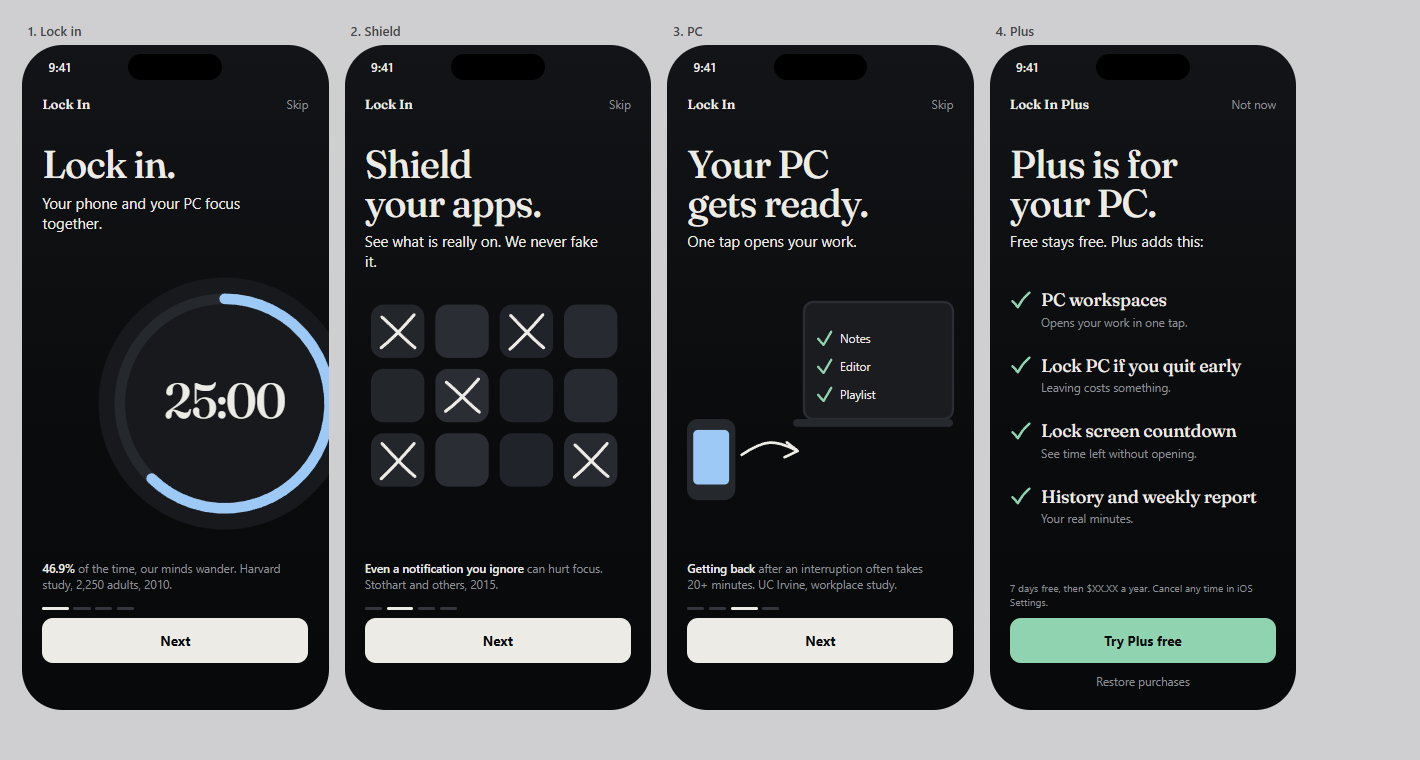
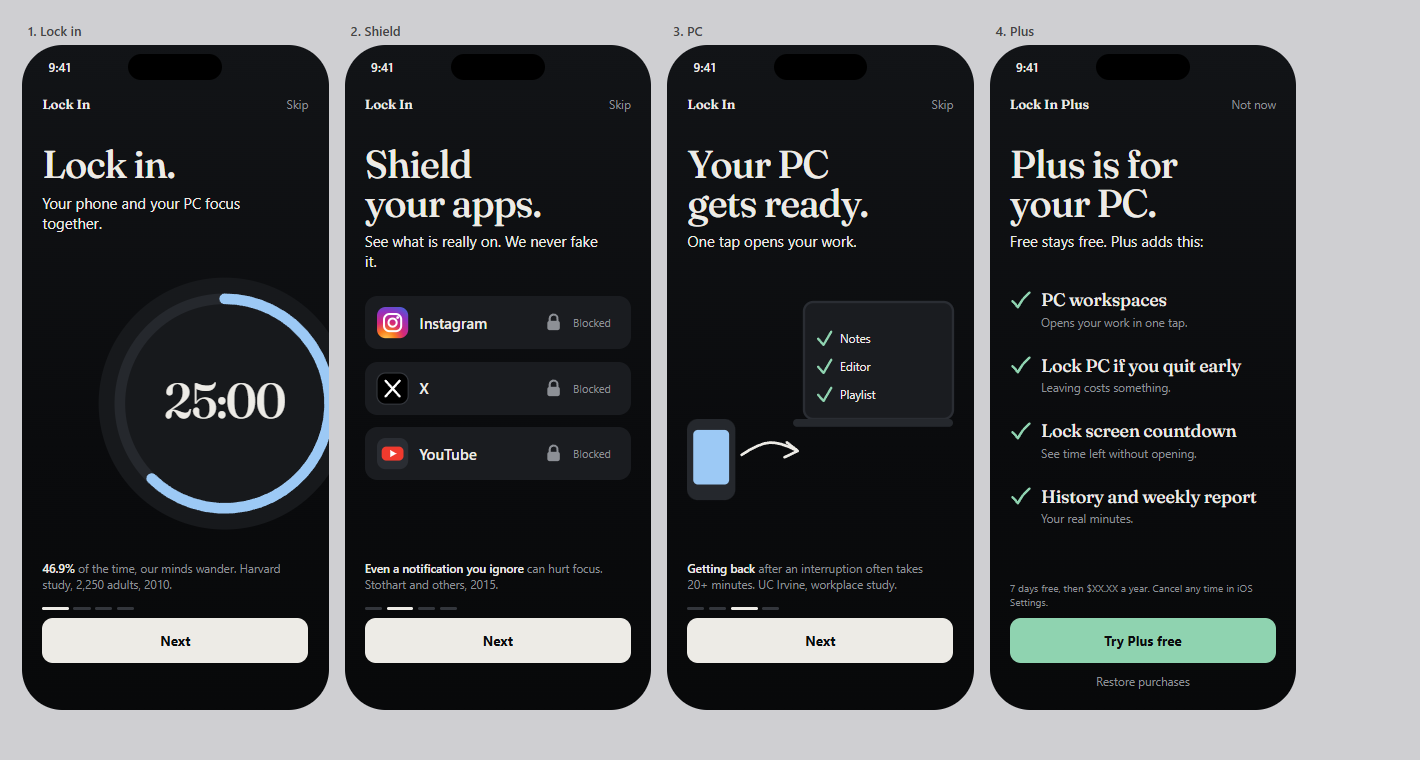
Flat matte Focus background; human welcome slide mocks; flat Focus and Restrictions drawings

Changed region(s): [[0.2479, 0.3934, 0.4338, 0.6658]]

diff --git a/docs/design/focus-flat.html b/docs/design/focus-flat.html
@@ -1,0 +1,85 @@
+<!doctype html>
+<html lang="en">
+<head>
+<meta charset="utf-8">
+<title>Focus flat background</title>
+<meta name="viewport" content="width=device-width, initial-scale=1">
+<style>
+  * { box-sizing: border-box; margin: 0; }
+  body { font-family: -apple-system, "SF Pro Rounded", "Nunito", system-ui, sans-serif; background: #d9d9de; padding: 20px; display: flex; gap: 20px; }
+  .phone { width: 393px; height: 852px; border-radius: 52px; overflow: hidden; position: relative; background: linear-gradient(180deg, #121417 0%, #0A0B0D 60%, #08090A 100%); color: #F3F5F8; flex: none; }
+  .blob { position: absolute; border-radius: 50%; filter: blur(55px); }
+  .vig { position: absolute; inset: 0; background: radial-gradient(ellipse at 50% 45%, transparent 55%, rgba(0,0,0,.45) 100%); pointer-events: none; }
+  .title { position: absolute; top: 66px; width: 100%; text-align: center; font-weight: 700; font-size: 13px; letter-spacing: 4px; color: #8E97A3; }
+  .pc { position: absolute; top: 90px; width: 100%; text-align: center; font-weight: 600; font-size: 12px; letter-spacing: 2px; color: #8E97A3; }
+  .shield { position: absolute; top: 56px; right: 12px; width: 44px; height: 44px; border-radius: 50%; background: #0B0C0E; box-shadow: inset 0 0 0 1px #2B2F35; display: grid; place-items: center; color: #C3CAD3; font-size: 16px; }
+  .clock { position: absolute; left: 24px; width: 345px; height: 345px; }
+  .clock svg { position: absolute; inset: 0; overflow: visible; }
+  .bezel { position: absolute; left: 2%; top: 2%; width: 96%; height: 96%; border-radius: 50%; background: conic-gradient(from 210deg, #2B2F35, #101215, #23272C, #0D0F11, #2A2E34, #2B2F35); box-shadow: 0 24px 28px rgba(0,0,0,.7); }
+  .face { position: absolute; left: 9.7%; top: 9.7%; width: 80.6%; height: 80.6%; border-radius: 50%; background: radial-gradient(circle at 35% 25%, #1D2025, #121417 55%, #0C0D0F); box-shadow: inset 0 0 0 2px rgba(0,0,0,.5); }
+  .time { position: absolute; left: 0; right: 0; top: 50%; transform: translateY(-62%); text-align: center; font-weight: 600; font-size: 69px; font-variant-numeric: tabular-nums; }
+  .cap { position: absolute; left: 0; right: 0; top: 50%; transform: translateY(190%); text-align: center; font-weight: 700; font-size: 13.5px; letter-spacing: 2.4px; color: #8E97A3; }
+  .rip { position: absolute; left: 50%; top: 50%; border-radius: 50%; border: 1px solid rgba(120,170,230,var(--a)); transform: translate(-50%,-50%); }
+  .tray { position: absolute; left: 24px; right: 24px; bottom: 104px; background: #0B0C0E; border-radius: 20px; padding: 4px; display: flex; gap: 4px; box-shadow: inset 0 0 0 1px rgba(255,255,255,.05); }
+  .tray div { flex: 1; height: 44px; display: grid; place-items: center; font-weight: 500; font-size: 15px; color: #7E8794; border-radius: 15px; }
+  .tray .on { color: #fff; font-weight: 700; background: linear-gradient(180deg, #2E3238, #1F2227); box-shadow: inset 0 0 0 1px rgba(255,255,255,.1), 0 3px 5px rgba(0,0,0,.6); }
+  .lab { position: absolute; bottom: 160px; width: 100%; text-align: center; font-weight: 600; font-size: 11px; letter-spacing: 3px; color: #8E97A3; }
+  .btn { position: absolute; left: 24px; right: 24px; bottom: 34px; height: 60px; border-radius: 22px; display: grid; place-items: center; font-weight: 800; font-size: 16px; letter-spacing: 2px; }
+  .btn.p { background: linear-gradient(180deg, #F4F6F9, #D5DBE2); color: #0E1218; box-shadow: 0 8px 12px rgba(0,0,0,.6); }
+  .btn.q { background: linear-gradient(180deg, #1B1E22, #131518); color: #C3CAD3; box-shadow: inset 0 0 0 1.5px #2B2F35; }
+  .dot { position: absolute; width: 3px; height: 3px; border-radius: 50%; background: #BFD8F5; }
+  .island { position: absolute; top: 11px; left: 50%; width: 120px; height: 34px; margin-left: -60px; border-radius: 20px; background: #000; z-index: 5; }
+  .sb { position: absolute; top: 18px; left: 34px; font-weight: 600; font-size: 16px; z-index: 5; }
+  .cap2 { position: absolute; top: -0px; }
+  h4 { font: 700 13px system-ui; color: #333; margin-bottom: 6px; }
+</style>
+</head>
+<body>
+<div id="root" style="display:flex;gap:20px"></div>
+<script>
+const W = 393, H = 852, U = 345;
+function ticks() {
+  let o = '';
+  const c = U / 2, r1 = U * 0.361;
+  for (let i = 0; i < 60; i++) {
+    const a = i / 60 * 2 * Math.PI, maj = i % 5 === 0, r2 = r1 - U * (maj ? 0.029 : 0.016);
+    o += `<line x1="${c + Math.cos(a) * r1}" y1="${c + Math.sin(a) * r1}" x2="${c + Math.cos(a) * r2}" y2="${c + Math.sin(a) * r2}" stroke="${maj ? '#5D6674' : '#323841'}" stroke-width="${maj ? 1.6 : 1}"/>`;
+  }
+  return o;
+}
+function arc(f, colors) {
+  const rd = U * 0.865 / 2, lw = U * 0.036, cc = 2 * Math.PI * rd, c = U / 2;
+  const id = 'g' + Math.random().toString(36).slice(2, 7);
+  const a = (1 - f) * 2 * Math.PI - Math.PI / 2;
+  const tip = f < .999 ? `<circle cx="${c + Math.cos(a) * rd}" cy="${c + Math.sin(a) * rd}" r="${lw * 0.15}" fill="#EAF5FF"/>` : '';
+  return `<defs><linearGradient id="${id}" x1="0" y1="0" x2="1" y2="1"><stop offset="0" stop-color="${colors[0]}"/><stop offset=".5" stop-color="${colors[1]}"/><stop offset="1" stop-color="${colors[2]}"/></linearGradient></defs>
+  <circle cx="${c}" cy="${c}" r="${rd}" fill="none" stroke="#050607" stroke-width="${lw + 4}"/>
+  <circle cx="${c}" cy="${c}" r="${rd}" fill="none" stroke="#1B1F24" stroke-width="${lw}"/>
+  <g transform="rotate(-90 ${c} ${c})"><circle cx="${c}" cy="${c}" r="${rd}" fill="none" stroke="url(#${id})" stroke-width="${lw}" stroke-linecap="round" stroke-dasharray="${cc * f} ${cc}" stroke-dashoffset="${-cc * (1 - f)}"/></g>${tip}`;
+}
+function phone(opts) {
+  const { run, calm, amount, time, cap, frac, label } = opts;
+  const g = [['#3A7BD8', .10, .25, .87], ['#6A4FD6', .95, .50, .82], ['#229BA6', .50, 1.0, .92]];
+  const sc = calm ? .92 : 1;
+  const blobs = g.map(([c, x, y, s]) => { const d = W * s * sc; return `<div class="blob" style="width:${d}px;height:${d}px;left:${W * x - d / 2}px;top:${H * y - d / 2}px;background:${c};opacity:${0.8 * amount}"></div>`; }).join('');
+  let dust = '';
+  [].forEach(([x, y]) => dust += `<div class="dot" style="left:${x}px;top:${y}px;opacity:${calm ? .2 : .5}"></div>`);
+  const top = 118 + (run ? 40 : 0);
+  const cy = 128 + 0; // clock top
+  const rip = [0.12, 0.45, 0.78].map(p => { const r = U * (0.5 + 0.24 * p) * 2; const al = p < .12 ? p / .12 * .45 : .45 * (1 - p); return `<div class="rip" style="width:${r}px;height:${r}px;--a:${al}"></div>`; }).join('');
+  const colors = run ? ['#B5DCFC', '#6AAEF0', '#4C8EE0'] : ['#B5DCFC', '#6AAEF0', '#4C8EE0'];
+  return `<div><h4>${label}</h4><div class="phone">${blobs}${dust}
+  <div class="island"></div><div class="sb">9:41</div>
+  <div class="title">LOCK IN</div>${run ? '' : '<div class="pc">PAIR A PC</div><div class="shield">&#9680;</div>'}
+  <div class="clock" style="top:${run ? 200 : 168}px">${rip}<div class="bezel"></div><div class="face"></div>
+    <svg viewBox="0 0 ${U} ${U}"><g>${ticks()}</g>${arc(frac, colors)}</svg>
+    <div class="time">${time}</div><div class="cap">${cap}</div></div>
+  ${run ? '' : '<div class="lab">MINUTES</div><div class="tray"><div>15</div><div>25</div><div class="on">45</div><div>60</div><div>90</div></div>'}
+  <div class="btn ${run ? 'q' : 'p'}">${run ? 'END SESSION' : 'LOCK IN'}</div></div></div>`;
+}
+document.getElementById('root').innerHTML =
+  phone({ run: false, calm: false, amount: 0, time: '45:00', cap: 'READY', frac: .5, label: 'Idle' }) +
+  '';
+</script>
+</body>
+</html>

diff --git a/apps/ios/LockIn/Clock/FocusBackdrop.swift b/apps/ios/LockIn/Clock/FocusBackdrop.swift
@@ -1,40 +1,21 @@
 import SwiftUI
 
-/// Matte black backdrop with slow drifting glows and rising dust.
-/// Glow color follows `FocusMood`. With Reduce Motion or Low Power Mode the drift and dust stop;
-/// colors still change, with a short fade.
+/// Flat matte black backdrop, the same dark gradient as the welcome slides. No glows, dust or vignette.
+/// The ring color on the clock still shows the session mood.
 struct FocusBackdrop: View {
     let timing: SessionTiming?
     let flash: FocusMood?
 
-    @Environment(\.accessibilityReduceMotion) private var systemReduceMotion
-    private var motion: Bool { !motionLimited(systemReduceMotion) }
-
     var body: some View {
-        TimelineView(.animation(minimumInterval: motion ? 1.0 / 20 : 1, paused: !motion && timing == nil)) { context in
-            let mood = FocusMood.resolve(timing: timing, flash: flash, now: context.date)
-            let t = motion ? context.date.timeIntervalSinceReferenceDate : 0
-            ZStack {
-                LinearGradient(
-                    stops: [
-                        .init(color: Matte.bgTop, location: 0),
-                        .init(color: Matte.bgMid, location: 0.6),
-                        .init(color: Matte.bgBottom, location: 1),
-                    ],
-                    startPoint: .top,
-                    endPoint: .bottom
-                )
-                MoodGlows(mood: mood, t: t, fade: motion ? 1.6 : 0.3)
-                if motion { DustField(t: t, calm: mood.calm) }
-                EllipticalGradient(
-                    colors: [.clear, .black.opacity(0.45)],
-                    center: UnitPoint(x: 0.5, y: 0.45),
-                    startRadiusFraction: 0.55,
-                    endRadiusFraction: 1
-                )
-                .allowsHitTesting(false)
-            }
-        }
+        LinearGradient(
+            stops: [
+                .init(color: Matte.bgTop, location: 0),
+                .init(color: Matte.bgMid, location: 0.6),
+                .init(color: Matte.bgBottom, location: 1),
+            ],
+            startPoint: .top,
+            endPoint: .bottom
+        )
         .ignoresSafeArea()
         .accessibilityHidden(true)
     }
@@ -45,79 +26,5 @@ struct CreamBackdrop: View {
     var body: some View {
         LinearGradient(colors: [Cream.top, Cream.bottom], startPoint: .top, endPoint: .bottom)
             .ignoresSafeArea()
-    }
-}
-
-private struct MoodGlows: View {
-    let mood: FocusMood
-    let t: Double
-    let fade: Double
-
-    private func drift(_ period: Double, _ phase: Double, _ amp: CGFloat) -> CGFloat {
-        CGFloat(sin(t * 2 * .pi / period + phase)) * amp
-    }
-
-    private func blob(_ color: Color, size: CGFloat) -> some View {
-        // Padding keeps the blur halo inside the rasterized bounds so it is not cut off.
-        Circle()
-            .fill(color)
-            .frame(width: size, height: size)
-            .padding(170)
-            .blur(radius: 55)
-            .drawingGroup()
-            .opacity(0.8 * mood.glowAmount)
-            .scaleEffect(mood.calm ? 0.92 : 1)
-            .animation(.easeInOut(duration: fade), value: mood)
-    }
-
-    var body: some View {
-        GeometryReader { geo in
-            let w = geo.size.width, h = geo.size.height
-            let k: CGFloat = mood.calm ? 0.4 : 1.0
-            ZStack {
-                blob(mood.glows[0], size: w * 0.87)
-                    .position(x: w * 0.10, y: h * 0.25)
-                    .offset(x: drift(14, 0, 40) * k, y: drift(14, 1.2, 60) * k)
-                blob(mood.glows[1], size: w * 0.82)
-                    .position(x: w * 0.95, y: h * 0.50)
-                    .offset(x: drift(17, 2.0, 50) * k, y: drift(17, 0.4, 55) * k)
-                blob(mood.glows[2], size: w * 0.92)
-                    .position(x: w * 0.50, y: h * 1.0)
-                    .offset(x: drift(19, 3.1, 45) * k, y: drift(19, 1.9, 40) * k)
-            }
-            .frame(width: w, height: h)
-        }
-        .allowsHitTesting(false)
-    }
-}
-
-private struct DustField: View {
-    let t: Double
-    let calm: Bool
-
-    private static func unit(_ n: Double) -> Double {
-        let x = sin(n * 12.9898) * 43758.5453
-        return x - x.rounded(.down)
-    }
-
-    var body: some View {
-        Canvas { context, size in
-            for i in 0..<16 {
-                let n = Double(i + 1)
-                let x = Self.unit(n) * size.width
-                let period = 14 + Self.unit(n + 40) * 12
-                let phase = Self.unit(n + 80)
-                var p = (t / period + phase).truncatingRemainder(dividingBy: 1)
-                if p < 0 { p += 1 }
-                let alpha: Double
-                if p < 0.15 { alpha = p / 0.15 * 0.55 }
-                else if p > 0.85 { alpha = (1 - p) / 0.15 * 0.3 }
-                else { alpha = 0.55 - (p - 0.15) / 0.7 * 0.25 }
-                let y = size.height * (1 - p)
-                let rect = CGRect(x: x - 1.5, y: y - 1.5, width: 3, height: 3)
-                context.fill(Path(ellipseIn: rect), with: .color(Color(hex: 0xBFD8F5).opacity(alpha * (calm ? 0.35 : 1))))
-            }
-        }
-        .allowsHitTesting(false)
     }
 }

diff --git a/docs/design/restrictions-matte.html b/docs/design/restrictions-matte.html
@@ -1,0 +1,28 @@
+<!doctype html>
+<html lang="en"><head><meta charset="utf-8"><title>Restrictions sheet matte</title>
+<style>
+*{box-sizing:border-box;margin:0}
+body{font-family:-apple-system,"Nunito",system-ui,sans-serif;background:#d9d9de;padding:20px;display:flex;gap:20px}
+.cap{font:700 13px system-ui;color:#333;margin-bottom:6px}
+.phone{width:393px;height:852px;border-radius:52px;overflow:hidden;position:relative;background:linear-gradient(180deg,#121417 0%,#0A0B0D 60%,#08090A 100%);color:#F3F5F8}
+.blob{position:absolute;border-radius:50%;filter:blur(55px)}
+.vig{position:absolute;inset:0;background:radial-gradient(ellipse at 50% 45%,transparent 55%,rgba(0,0,0,.45) 100%)}
+.island{position:absolute;top:11px;left:50%;width:120px;height:34px;margin-left:-60px;border-radius:20px;background:#000}
+.sb{position:absolute;top:18px;left:34px;font-weight:600;font-size:16px}
+.t{position:absolute;top:66px;width:100%;text-align:center;font-weight:700;font-size:13px;letter-spacing:4px;color:#8E97A3}
+.done{position:absolute;top:60px;right:24px;font-weight:600;font-size:17px;color:#C3CAD3}
+.h{position:absolute;left:24px;right:24px;top:140px;font-weight:300;font-size:26px;line-height:1.2}
+.btn{position:absolute;left:24px;right:24px;height:60px;border-radius:22px;display:grid;place-items:center;font-weight:800;font-size:16px;letter-spacing:2px}
+.p{background:linear-gradient(180deg,#F4F6F9,#D5DBE2);color:#0E1218;box-shadow:0 8px 12px rgba(0,0,0,.6)}
+.q{background:linear-gradient(180deg,#1B1E22,#131518);color:#C3CAD3;box-shadow:inset 0 0 0 1.5px #2B2F35}
+</style></head><body><div id="r" style="display:flex;gap:20px"></div>
+<script>
+const W=393,H=852;
+function ph(cap,head,btn,prom){
+ const g=[['#3A7BD8',.10,.25,.87],['#6A4FD6',.95,.50,.82],['#229BA6',.50,1.0,.92]];
+ const b=g.map(([c,x,y,s])=>{const d=W*s;return `<div class="blob" style="width:${d}px;height:${d}px;left:${W*x-d/2}px;top:${H*y-d/2}px;background:${c};opacity:.8"></div>`}).join('');
+ return `<div><div class="cap">${cap}</div><div class="phone">${b}<div class="vig"></div><div class="island"></div><div class="sb">9:41</div><div class="t">RESTRICTIONS</div><div class="done">Done</div><div class="h">${head}</div><div class="btn ${prom?'p':'q'}" style="top:260px">${btn}</div></div></div>`}
+document.getElementById('r').innerHTML=
+ ph('Access off','Screen Time access is off.','ALLOW ACCESS',true)+
+ ph('Access on, apps chosen','Ready. Chosen apps are shielded during a session.','CHANGE APPS',false);
+</script></body></html>

diff --git a/docs/design/welcome-human.html b/docs/design/welcome-human.html
@@ -67,7 +67,7 @@ const s2 = frame('2. Shield', `
   <div class="mark">Lock In</div><div class="skip">Skip</div>
   <h1 style="top:128px">Shield<br>your apps.</h1>
   <p class="lead" style="top:238px">See what is really on. We never fake it.</p>
-  <svg style="left:34px;top:330px" width="330" height="240" viewBox="0 0 328 232">${tiles.join('')}${cross(0,0,1)}${cross(164,0,-1)}${cross(82,82,2)}${cross(246,164,0)}${cross(0,164,-2)}</svg>
+  ${[['Instagram', `<svg style="position:static" width="40" height="40" viewBox="0 0 40 40"><defs><radialGradient id="ig" cx="0.3" cy="1.05" r="1.15"><stop offset="0" stop-color="#FFD25A"/><stop offset="0.25" stop-color="#FA7E1E"/><stop offset="0.5" stop-color="#D62976"/><stop offset="0.78" stop-color="#962FBF"/><stop offset="1" stop-color="#4F5BD5"/></radialGradient></defs><rect width="40" height="40" rx="11" fill="url(#ig)"/><rect x="9" y="9" width="22" height="22" rx="7" fill="none" stroke="#fff" stroke-width="2.6"/><circle cx="20" cy="20" r="5.2" fill="none" stroke="#fff" stroke-width="2.6"/><circle cx="26.5" cy="13.5" r="1.7" fill="#fff"/></svg>`], ['X', `<svg style="position:static" width="40" height="40" viewBox="0 0 40 40"><rect width="40" height="40" rx="11" fill="#000" stroke="#33363C" stroke-width="1.5"/><path d="M11 10 L29 30 M29 10 L11 30" stroke="#fff" stroke-width="3" stroke-linecap="round"/></svg>`], ['YouTube', `<svg style="position:static" width="40" height="40" viewBox="0 0 40 40"><rect width="40" height="40" rx="11" fill="#2A2D33"/><rect x="6" y="11" width="28" height="18" rx="6" fill="#F03A2E"/><path d="M17 15.5 L25 20 L17 24.5 Z" fill="#fff"/></svg>`]].map(([n, icon], i) => `<div style="position:absolute;left:26px;right:26px;top:${322 + i * 84}px;height:68px;border-radius:16px;background:#1A1C20;display:flex;align-items:center;padding:0 16px;gap:14px">${icon}<div style="font-size:19px;font-weight:600;flex:1">${n}</div><svg style="position:static" width="22" height="24" viewBox="0 0 22 24" fill="none" stroke="#8D9096" stroke-width="2.6" stroke-linecap="round"><rect x="3" y="10" width="16" height="12" rx="3" fill="#8D9096" stroke="none"/><path d="M6 10 V7 a5 5 0 0 1 10 0 V10"/></svg><div style="font-size:14px;color:#8D9096;width:58px">Blocked</div></div>`).join('')}
   <p class="fact"><b>Even a notification you ignore</b> can hurt focus. Stothart and others, 2015.</p>
   ${bars(1)}<div class="btn">Next</div>`);
 
